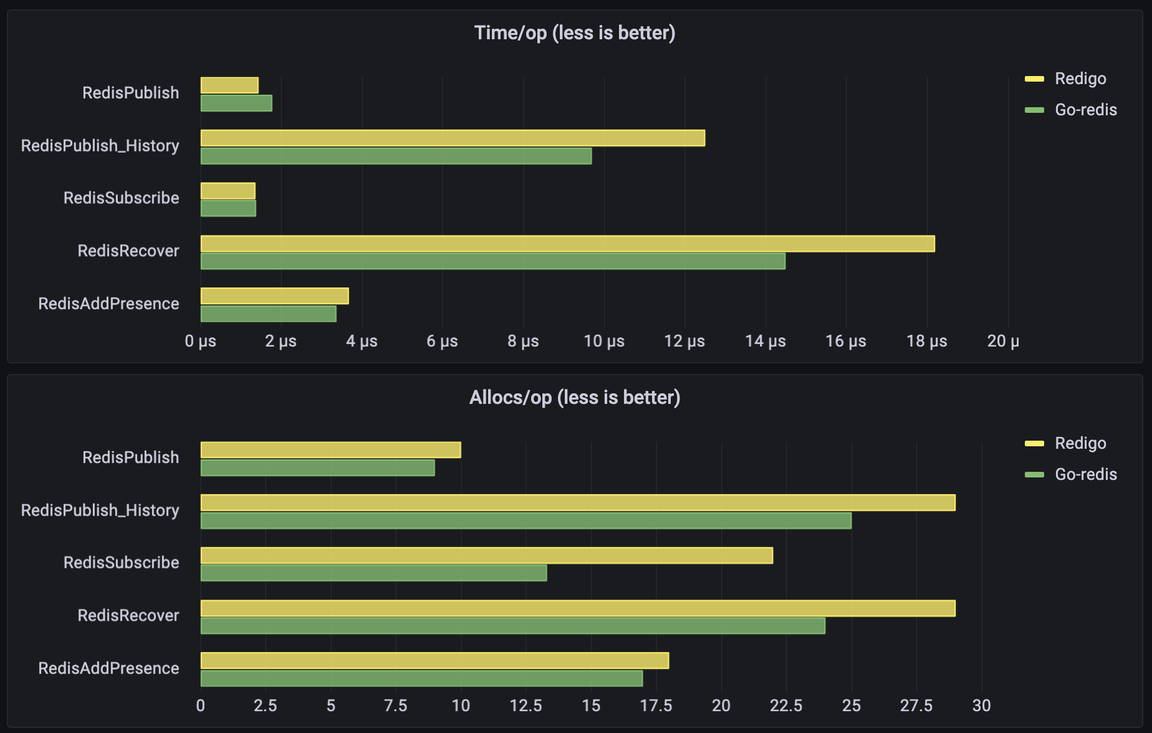
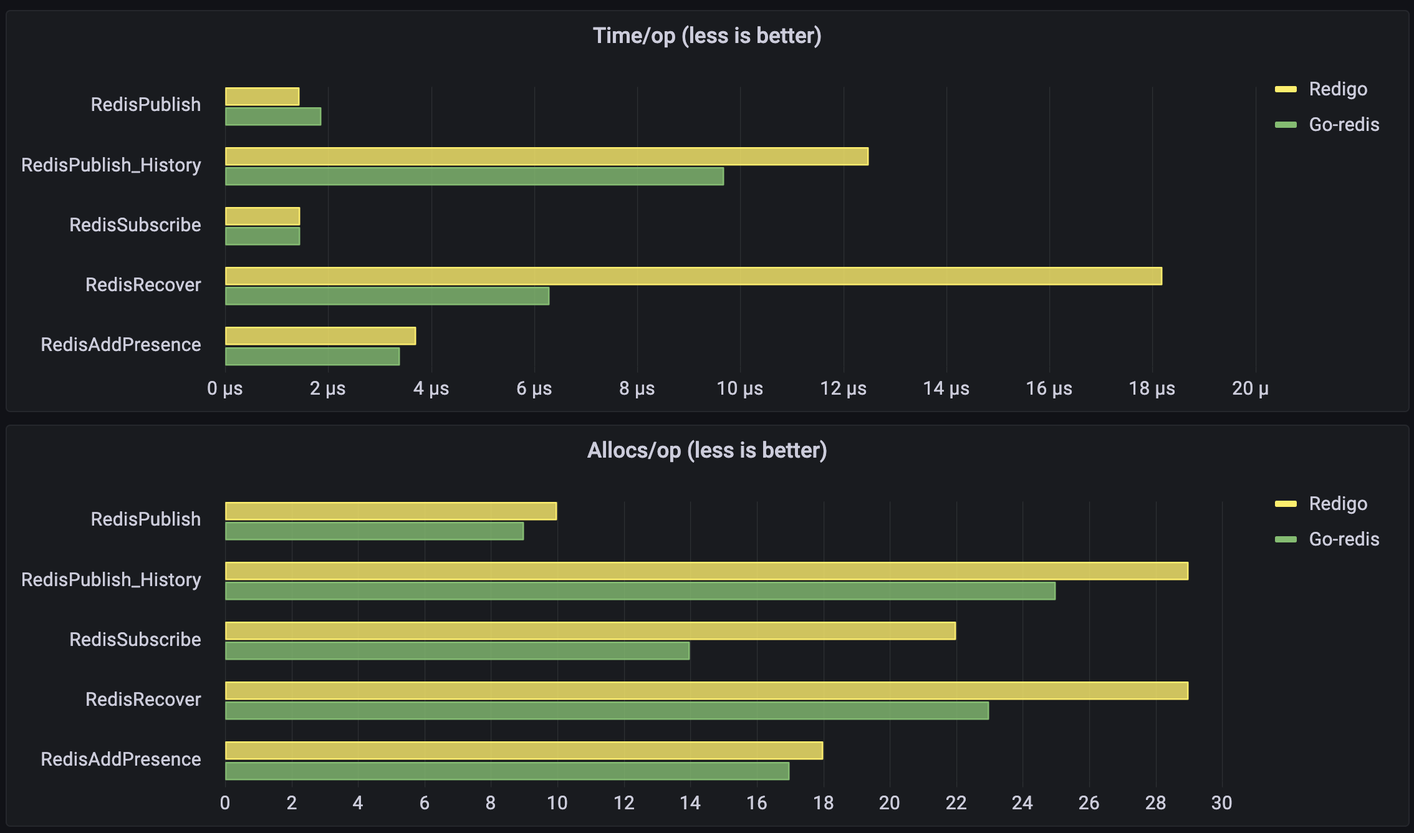
post updates

diff --git a/blog/2022-12-13-improving-redis-engine-performance.md b/blog/2022-12-13-improving-redis-engine-performance.md
@@ -10,7 +10,7 @@ hide_table_of_contents: false
 draft: true
 ---
 
-![Centrifuge](/img/redis.png)
+![Centrifugo_Redis_Engine_Improvements](/img/redis.png)
 
 The main objective of Centrifugo is to manage persistent client connections established over various real-time transports (including WebSocket, HTTP-Streaming, SSE, WebTransport, etc) and offer an API for publishing data towards established connections. Clients subscribe to channels, hence Centrifugo implements PUB/SUB mechanics to transmit published data to all online channel subscribers.
 
@@ -36,7 +36,7 @@ In general Centrifugo architecture may be perfectly illustrated by this picture 
 
 ## Redigo
 
-For a long time, the [gomodule/redigo](https://github.com/gomodule/redigo) package served as the foundation for the Redis Engine implementation in Centrifugo. Huge props go to Mr Gary Burd for establishing such a great set of libraries in Go ecosystem.
+For a long time, the [gomodule/redigo](https://github.com/gomodule/redigo) package served as the foundation for the Redis Engine implementation in Centrifugo. Huge props go to [Mr Gary Burd](https://github.com/garyburd) for creating it.
 
 Redigo offers a connection [Pool](https://pkg.go.dev/github.com/gomodule/redigo/redis#Pool) to Redis. A simple usage of it involves getting the connection from the pool, issuing request to Redis over that connection, and then putting the connection back to the pool after receiving the result from Redis.
 
@@ -127,18 +127,18 @@ func (s *sender) send() error {
 	return <-errCh
 }
 
-func (p *sender) runPipelineRoutine() {
+func (s *sender) runPipelineRoutine() {
 	conn := p.pool.Get()
 	defer conn.Close()
 	for {
 		select {
-		case cmd := <-p.cmdCh:
+		case cmd := <-s.cmdCh:
 			commands := []command{cmd}
 			conn.Send("set", "redigo", "test")
 		loop:
 			for i := 0; i < maxCommandsInPipeline; i++ {
 				select {
-				case cmd := <-p.cmdCh:
+				case cmd := <-s.cmdCh:
 					commands = append(commands, cmd)
 					conn.Send("set", "redigo", "test")
 				default:
@@ -185,7 +185,7 @@ func BenchmarkRedigoPipelininig(b *testing.B) {
 }
 ```
 
-This is a strategy that we employed in Centrifugo for a long time. As you can see code with automatic pipelining gets more complex, and in real life, it's even more complicated to handle different types of commands, channel send timeouts, and server shutdowns.
+This is a strategy that we employed in Centrifugo for a long time. As you can see code with automatic pipelining gets more complex, and in real life it's even more complicated to support different types of commands, channel send timeouts, and server shutdowns.
 
 What about the performance of this approach?
 
@@ -196,7 +196,9 @@ BenchmarkRedigoPipelininig-8   1840758     604.7 ns/op      176 B/op     4 alloc
 
 Operation latency reduced from 4648 ns/op to 604.7 ns/op – not bad right?
 
-It's worth mentioning that upon increased RTT between application and Redis the approach with pipelining will provide more poor throughput. But it still can be better than in pool-based approach. Let's say we have latency 5ms between app and Redis. This means that with pool size of 128 you will be able to issue up to `128 * (1000 / 5) = 25600` requests per second. With the pipelining approach above it may be up to `512 * (1000 / 5) = 102400` requests per second. And it can scale further if you increase `numPipelineWorkers`. Though increasing `numPipelineWorkers` has negative effect on CPU – we will discuss this later in this post.
+It's worth mentioning that upon increased RTT between application and Redis the approach with pipelining will provide worse throughput. But it still can be better than in pool-based approach.
+
+Let's say we have latency 5ms between app and Redis. This means that with pool size of 128 you will be able to issue up to `128 * (1000 / 5) = 25600` requests per second over 128 connections. With the pipelining approach above the theoretical limit is `512 * (1000 / 5) = 102400` requests per second over a single connection (though in case of using code for pipelining shown above we need to have larger parallelism). And it can scale further if you increase `numPipelineWorkers` to work over several connections in paralell. Though increasing `numPipelineWorkers` has negative effect on CPU – we will discuss this later in this post.
 
 Redigo is an awesome battle-tested library that served us great for a long time.
 
@@ -251,20 +253,20 @@ At some point we felt that eliminating additional dependencies (even though I am
 To summarize, here is what we wanted from Redis library:
 
 * Possibility to work with all three Redis setup options we support: standalone, master-replica(s) with Sentinel, Redis Cluster, so we can depend on one library instead of three
-* Less memory allocations, so our users could notice a sufficient CPU reduction on Centrifugo nodes which communicate with Redis a lot
-* More type-safety when constructing Redis commands
+* Less memory allocations (and more type-safety API is a plus)
 * Support working with RESP2-only Redis servers as we need that for backwards compatibility. And some vendors like Redis Enterprise still support RESP2 protocol only
 * The library should be actively maintained
 
-## Go-redis
+## Go-redis/redis
 
-The most obvious alternative to `redigo` is [go-redis/redis](https://github.com/go-redis/redis) package. It's popular, regularly gets updates, used by a huge amount of Go projects (Grafana, Thanos, etc.). I personally successfully used it in several other projects I worked on.
+The most obvious alternative to `redigo` is [go-redis/redis](https://github.com/go-redis/redis) package. It's popular, regularly gets updates, used by a huge amount of Go projects (Grafana, Thanos, etc.). And maintained by 
+[Vladimir Mihailenco](https://github.com/vmihailenco) who created several more awesome Go libraries, like [msgpack](https://github.com/vmihailenco/msgpack) for example. I personally successfully used `go-redis/redis` in several other projects I worked on.
 
 To avoid setup boilerplate for various Redis installation variations `go-redis/redis` has [UniversalClient](https://pkg.go.dev/github.com/go-redis/redis/v9#UniversalClient). From docs:
 
 > UniversalClient is a wrapper client which, based on the provided options, represents either a ClusterClient, a FailoverClient, or a single-node Client. This can be useful for testing cluster-specific applications locally or having different clients in different environments.
 
-In terms of implementation `go-redis/redis` also has internal pool of connections to Redis, similar to `redigo`. It's also possible to get a dedicated connection from the internal pool and use it for pipelining. So `UniversalClient` reduces setup boilerplate for different Redis installation types and number of dependencies we had – and still provides similar approach for the connection management so we could easily re-implement things we had.
+In terms of implementation `go-redis/redis` also has internal pool of connections to Redis, similar to `redigo`. It's also possible to use [Client.Pipeline](https://pkg.go.dev/github.com/go-redis/redis/v9#Client.Pipeline) method to allocate a [Pipeliner](https://pkg.go.dev/github.com/go-redis/redis/v9#Pipeliner) interface and use it for pipelining. So `UniversalClient` reduces setup boilerplate for different Redis installation types and number of dependencies we had, and it provide very similar way to pipeline requests so we could easily re-implement things we had with Redigo.
 
 Go-redis also provides more type-safety when constructing commands compared to Redigo, almost every command in Redis is implemented as a separate method of `Client`, for example `Publish` [defined](https://pkg.go.dev/github.com/go-redis/redis/v9#Client.Publish) as:
 
@@ -323,29 +325,29 @@ But what about performance? Here we will show results for several operations whi
 4. Recovering missed publication state from channel STREAM, this is again may be called lots of times when all clients reconnect at once (`RedisRecover`).
 5. Updating connection presence information - many connections may periodically update their channel online presence information in Redis (`RedisAddPresence`)
 
-Here are the benchmark results we got when comparing `redigo` (v1.8.9) implementation (old) and `go-redis/redis` (v9.0.0-rc.1) implementation (new) with Redis v6.2.7:
+Here are the benchmark results we got when comparing `redigo` (v1.8.9) implementation (old) and `go-redis/redis` (v9.0.0-rc.2) implementation (new) with Redis v6.2.7 on Mac with M1 processor and benchmark paralellism 128:
 
 ```
-❯ benchstat redigo.txt goredis.txt
+❯ benchstat redigo_p128.txt goredis_p128.txt
 name                      old time/op    new time/op    delta
-RedisPublish-8            1.45µs ± 6%    1.78µs ± 2%  +22.30%  (p=0.000 n=9+9)
-RedisPublish_History-8    12.5µs ± 7%     9.7µs ± 3%  -22.40%  (p=0.000 n=10+10)
-RedisSubscribe-8          1.56µs ±32%    1.42µs ±11%     ~     (p=0.290 n=30+28)
-RedisRecover-8            18.2µs ± 3%    14.5µs ± 2%  -20.11%  (p=0.000 n=10+10)
-RedisAddPresence-8        3.68µs ± 1%    3.37µs ± 3%   -8.36%  (p=0.000 n=10+10)
+RedisPublish-8            1.45µs ±10%    1.88µs ± 4%  +29.32%  (p=0.000 n=10+10)
+RedisPublish_History-8    12.5µs ± 6%     9.7µs ± 3%  -22.77%  (p=0.000 n=10+10)
+RedisSubscribe-8          1.47µs ±24%    1.47µs ±10%     ~     (p=0.469 n=10+10)
+RedisRecover-8            18.4µs ± 2%     6.3µs ± 0%  -65.78%  (p=0.000 n=10+8)
+RedisAddPresence-8        3.72µs ± 1%    3.40µs ± 1%   -8.74%  (p=0.000 n=10+10)
 
-name                     old alloc/op   new alloc/op   delta
-RedisPublish-8              483B ± 0%      499B ± 0%   +3.31%  (p=0.000 n=10+8)
-RedisPublish_History-8    1.30kB ± 0%    1.08kB ± 0%  -16.69%  (p=0.000 n=8+8)
-RedisSubscribe-8            896B ± 1%      662B ± 8%  -26.18%  (p=0.000 n=30+30)
-RedisRecover-8            1.25kB ± 0%    1.02kB ± 0%  -18.29%  (p=0.000 n=10+10)
-RedisAddPresence-8          907B ± 0%      827B ± 0%   -8.78%  (p=0.000 n=10+8)
+name                      old alloc/op   new alloc/op   delta
+RedisPublish-8              483B ± 0%      499B ± 0%   +3.37%  (p=0.000 n=9+10)
+RedisPublish_History-8    1.30kB ± 0%    1.08kB ± 0%  -16.67%  (p=0.000 n=10+10)
+RedisSubscribe-8            892B ± 2%      662B ± 6%  -25.83%  (p=0.000 n=10+10)
+RedisRecover-8            1.25kB ± 1%    1.00kB ± 0%  -19.91%  (p=0.000 n=10+10)
+RedisAddPresence-8          907B ± 0%      827B ± 0%   -8.82%  (p=0.002 n=7+8)
 
-name                    old allocs/op  new allocs/op  delta
+name                      old allocs/op  new allocs/op  delta
 RedisPublish-8              10.0 ± 0%       9.0 ± 0%  -10.00%  (p=0.000 n=10+10)
 RedisPublish_History-8      29.0 ± 0%      25.0 ± 0%  -13.79%  (p=0.000 n=10+10)
-RedisSubscribe-8            22.0 ± 0%      13.6 ±12%  -38.33%  (p=0.000 n=30+30)
-RedisRecover-8              29.0 ± 0%      24.0 ± 0%  -17.24%  (p=0.000 n=10+10)
+RedisSubscribe-8            22.0 ± 0%      14.0 ± 0%  -36.36%  (p=0.000 n=8+7)
+RedisRecover-8              29.0 ± 0%      23.0 ± 0%  -20.69%  (p=0.000 n=10+10)
 RedisAddPresence-8          18.0 ± 0%      17.0 ± 0%   -5.56%  (p=0.000 n=10+10)
 ```
 
@@ -359,7 +361,13 @@ Please note that this benchmark is not a pure performance comparison of two Go l
 
 :::
 
-While the observed performance improvements here are not really mind-blowing – we see a noticeable reduction in allocations in these benchmarks and in some other benchmarks not presented here we observed a 2 times reduced latency.
+:::note
+
+Centrifugo benchmarks results shown in the post use parallelism 128. If someone interested to check numbers for paralellism 1 or 16 – [check out this comment on Github](https://github.com/centrifugal/centrifugal.dev/pull/18#issuecomment-1356263272).
+
+:::
+
+While the observed performance improvements here are not mind-blowing – we see a noticeable reduction in allocations in these benchmarks and in some other benchmarks not presented here we observed a 2 times reduced latency.
 
 Overall, results convinced us that the migration from `redigo` to `go-redis/redis` may provide Centrifugo with everything we aimed for – all the goals for a `redigo` alternative outlined above were successfully fullfilled.
 
@@ -375,7 +383,7 @@ While results were good with `go-redis/redis` we also made an attempt to impleme
 
 > A fast Golang Redis client that supports Client Side Caching, Auto Pipelining, Generics OM, RedisJSON, RedisBloom, RediSearch, RedisAI, RedisGears, etc.
 
-The readme of `rueidis` contains benchmark results where it hugely outperforms `go-redis/redis` in both single Redis and Redis Custer setups:
+The readme of `rueidis` contains benchmark results where it hugely outperforms `go-redis/redis` in terms of operation latency/throughput in both single Redis and Redis Custer setups:
 
 ![](/img/rueidis_1.png)
 
@@ -427,35 +435,35 @@ For Centrifugo we didn't expect such a huge speed-up as shown in the above graph
 * [Part 2: Reading Again From Channels?](https://betterprogramming.pub/working-on-high-performance-golang-client-library-reading-again-from-channels-5e98ff3538cf)
 * [Part 3: Remove the Bad Busy Loops With the Sync.Cond](https://betterprogramming.pub/working-on-high-performance-golang-client-library-remove-the-bad-busy-loops-with-the-sync-cond-e262b3fcb458)
 
-I did some prototypes with `rueidis` which were super-promising in terms of performance. There were some issues found during that early prototyping (mostly with PUB/SUB) – but all of them were quickly resolved by Rueian (`rueidis` author).
+I did some prototypes with `rueidis` which were super-promising in terms of performance. There were some issues found during that early prototyping (mostly with PUB/SUB) – but all of them were quickly resolved by Rueian.
 
 Until `v0.0.80` release `rueidis` did not support RESP2 though, so we could not replace our Redis Engine implementation with it. But as soon as it got RESP2 support we opened [a pull request with alternative implementation](https://github.com/centrifugal/centrifuge/pull/262).
 
-Since auto-pipelining is used in `rueidis` by default we were able to remove some of our own pipelining management code – so the Engine implementation is more concise now. One more thing to mention is a simpler PUB/SUB code we were able to write with `rueidis`. In `redigo` case we had to periodically PING PUB/SUB connection to maintain it alive, `rueidis` does this automatically.
+Since auto-pipelining is used in `rueidis` by default we were able to remove some of our own pipelining management code – so the Engine implementation is more concise now. One more thing to mention is a simpler PUB/SUB code we were able to write with `rueidis`. One example is that in `redigo` case we had to periodically PING PUB/SUB connection to maintain it alive, `rueidis` does this automatically.
 
-Regarding performance, here are the benchmark results we got when comparing `redigo` (v1.8.9) implementation (old) and `rueidis` (v0.0.86) implementation (new):
+Regarding performance, here are the benchmark results we got when comparing `redigo` (v1.8.9) implementation (old) and `rueidis` (v0.0.90) implementation (new):
 
 ```
-❯ benchstat redigo.txt rueidis.txt
+❯ benchstat redigo_p128.txt rueidis_p128.txt
 name                      old time/op    new time/op    delta
-RedisPublish-8            1.45µs ± 6%    0.59µs ± 3%  -59.67%  (p=0.000 n=9+8)
-RedisPublish_History-8    12.5µs ± 7%     9.7µs ± 0%  -22.28%  (p=0.000 n=10+10)
-RedisSubscribe-8          1.50µs ±28%    1.42µs ± 3%     ~     (p=1.000 n=10+10)
-RedisRecover-8            18.2µs ± 3%    10.9µs ± 1%  -40.01%  (p=0.000 n=10+10)
-RedisAddPresence-8        3.68µs ± 1%    3.54µs ± 0%   -3.86%  (p=0.000 n=10+9)
+RedisPublish-8            1.45µs ±10%    0.56µs ± 1%  -61.53%  (p=0.000 n=10+9)
+RedisPublish_History-8    12.5µs ± 6%     9.7µs ± 1%  -22.43%  (p=0.000 n=10+9)
+RedisSubscribe-8          1.47µs ±24%    1.45µs ± 1%     ~     (p=0.484 n=10+9)
+RedisRecover-8            18.4µs ± 2%     6.2µs ± 1%  -66.08%  (p=0.000 n=10+10)
+RedisAddPresence-8        3.72µs ± 1%    3.60µs ± 1%   -3.34%  (p=0.000 n=10+10)
 
-name                     old alloc/op   new alloc/op   delta
-RedisPublish-8              483B ± 0%      171B ± 0%  -64.66%  (p=0.000 n=10+10)
-RedisPublish_History-8    1.30kB ± 0%    0.55kB ± 1%  -57.68%  (p=0.000 n=8+10)
-RedisSubscribe-8            902B ± 1%      440B ± 0%  -51.20%  (p=0.000 n=10+10)
-RedisRecover-8            1.25kB ± 0%    0.59kB ± 1%  -53.08%  (p=0.000 n=10+10)
-RedisAddPresence-8          907B ± 0%      149B ± 2%  -83.52%  (p=0.000 n=10+10)
+name                      old alloc/op   new alloc/op   delta
+RedisPublish-8              483B ± 0%       91B ± 0%  -81.16%  (p=0.000 n=9+10)
+RedisPublish_History-8    1.30kB ± 0%    0.39kB ± 0%  -70.08%  (p=0.000 n=10+8)
+RedisSubscribe-8            892B ± 2%      360B ± 0%  -59.66%  (p=0.000 n=10+10)
+RedisRecover-8            1.25kB ± 1%    0.36kB ± 1%  -71.52%  (p=0.000 n=10+10)
+RedisAddPresence-8          907B ± 0%      151B ± 1%  -83.34%  (p=0.000 n=7+9)
 
-name                    old allocs/op  new allocs/op  delta
-RedisPublish-8              10.0 ± 0%       3.0 ± 0%  -70.00%  (p=0.000 n=10+10)
-RedisPublish_History-8      29.0 ± 0%      12.0 ± 0%  -58.62%  (p=0.000 n=10+10)
-RedisSubscribe-8            22.0 ± 0%       7.0 ± 0%  -68.18%  (p=0.000 n=10+10)
-RedisRecover-8              29.0 ± 0%      11.0 ± 0%  -62.07%  (p=0.000 n=10+10)
+name                      old allocs/op  new allocs/op  delta
+RedisPublish-8              10.0 ± 0%       2.0 ± 0%  -80.00%  (p=0.000 n=10+10)
+RedisPublish_History-8      29.0 ± 0%      10.0 ± 0%  -65.52%  (p=0.000 n=10+10)
+RedisSubscribe-8            22.0 ± 0%       6.0 ± 0%  -72.73%  (p=0.002 n=8+10)
+RedisRecover-8              29.0 ± 0%       7.0 ± 0%  -75.86%  (p=0.000 n=10+10)
 RedisAddPresence-8          18.0 ± 0%       3.0 ± 0%  -83.33%  (p=0.000 n=10+10)
 ```
 
@@ -477,9 +485,9 @@ This drastically reduces a chance to make a stupid mistake while constructing a 
 
 ## Switching to Rueidis: reducing CPU usage
 
-After making all these benchmarks and implementing Engine in Rueidis I decided to check whether Centrifugo consumes less CPU with it. I expected a notable CPU reduction as Rueidis implementation allocates two times less than Redigo-based. Turned out it's not that simple.
+After making all these benchmarks and implementing Engine in Rueidis I decided to check whether Centrifugo consumes less CPU with it. I expected a notable CPU reduction as Rueidis Engine implementation allocates two times less than Redigo-based. Turned out it's not that simple.
 
-I ran Centrifugo with some artificial load and noticed that CPU consumption of new implementation is actually... worse than we had with Redigo-based engine under equal conditions! But why?
+I ran Centrifugo with some artificial load and noticed that CPU consumption of the new implementation is actually... worse than we had with Redigo-based engine under equal conditions!😩 But why?
 
 As I mentioned above Redis pipelining is a technique when several commands may be combined into one batch to send over the network. In case of automatic pipelining the size of generated batches start playing a crucial role in application and Redis CPU usage – since smaller command batches result into more read/write system calls on both application and Redis sides. That's why projects like [Twemproxy](https://github.com/twitter/twemproxy) which sit between app and Redis have sich a good effect on Redis CPU usage among other things. 
 
@@ -525,42 +533,61 @@ Now CPU usage is:
 | Application CPU, % | 95            | 99             |  <span style={{color: 'green'}}>59</span>            |
 | Redis CPU, %       | 36             | 35              | <span style={{color: 'green'}}>12</span>              |
 
-As we can see we can achieve great CPU usage reduction with it. It went from 116% to 59% for the application side, and from 42% to only 12% for Redis! We are sacrificing latency though. Given the fact the CPU utilization reduction is very notable the trade-off is pretty fair.
+So we can achieve great CPU usage reduction. CPU went from 116% to 59% for the application side, and from 42% to only 12% for Redis! We are sacrificing latency though. Given the fact the CPU utilization reduction is very notable the trade-off is pretty fair.
 
-As you can see we were able to achieve better CPU results just by using 100 microseconds delay to each request. In real life, where we are not running Redis on localhost and have some network latency in between application and Redis, this delay should be insignificant. Indeed, it can even improve (!) the latency you have. You may wonder what happened with benchmarks we showed above after we added `MaxFlushDelay` option. In Centrifugo we chose default value 100 microseconds, and here are results on localhost (old without delay, new with delay):
+:::caution
+
+It's definitely possible to improve CPU usage in Redigo and Go-redis/redis cases too – using similar technique. But the goal here was to improve Rueidis-based engine implementation to make it comparable or better than our Redigo-based implementation in terms of CPU utilization. 
+
+:::
+
+As you can see we were able to achieve better CPU results just by using 100 microseconds delay to each request. In real life, where we are not running Redis on localhost and have some network latency in between application and Redis, this delay should be insignificant. Indeed, it can even improve (!) the latency you have. You may wonder what happened with benchmarks we showed above after we added `MaxFlushDelay` option. In Centrifugo we chose default value 100 microseconds, and here are results on localhost (`old` without delay, `new` with delay):
 
 ```
+> benchstat rueidis_p128.txt rueidis_delay_p128.txt
 name                      old time/op    new time/op    delta
-RedisPublish-8             574ns ± 3%     486ns ± 3%  -15.35%  (p=0.000 n=9+10)
-RedisPublish_History-8    9.65µs ± 1%    9.60µs ± 1%   -0.50%  (p=0.014 n=9+9)
-RedisSubscribe-8          1.42µs ± 3%    1.27µs ± 2%  -10.69%  (p=0.000 n=10+10)
-RedisRecover-8            10.8µs ± 0%    10.6µs ± 0%   -1.36%  (p=0.000 n=9+9)
-RedisAddPresence-8        3.56µs ± 1%    3.31µs ± 0%   -7.14%  (p=0.000 n=10+10)
+RedisPublish-8             559ns ± 1%     468ns ± 0%  -16.35%  (p=0.000 n=9+8)
+RedisPublish_History-8    9.72µs ± 1%    9.67µs ± 1%   -0.52%  (p=0.007 n=9+8)
+RedisSubscribe-8          1.45µs ± 1%    1.27µs ± 1%  -12.49%  (p=0.000 n=9+10)
+RedisRecover-8            6.25µs ± 1%    5.85µs ± 0%   -6.32%  (p=0.000 n=10+10)
+RedisAddPresence-8        3.60µs ± 1%    3.33µs ± 1%   -7.52%  (p=0.000 n=10+10)
 
-name                     old alloc/op   new alloc/op   delta
-RedisPublish-8              171B ± 0%      171B ± 0%     ~     (all equal)
-RedisPublish_History-8      554B ± 1%      556B ± 1%     ~     (p=0.714 n=10+10)
-RedisSubscribe-8            440B ± 0%      440B ± 0%     ~     (all equal)
-RedisRecover-8              590B ± 1%      589B ± 1%     ~     (p=0.651 n=10+10)
-RedisAddPresence-8          231B ± 1%      231B ± 1%     ~     (p=0.768 n=9+9)
-
-name                    old allocs/op  new allocs/op  delta
-RedisPublish-8              3.00 ± 0%      3.00 ± 0%     ~     (all equal)
-RedisPublish_History-8      12.0 ± 0%      12.0 ± 0%     ~     (all equal)
-RedisSubscribe-8            7.00 ± 0%      7.00 ± 0%     ~     (all equal)
-RedisRecover-8              11.0 ± 0%      11.0 ± 0%     ~     (all equal)
-RedisAddPresence-8          4.00 ± 0%      4.00 ± 0%     ~     (all equal)
+(rest is not important here...)
 ```
 
 It's even better for this set of benchmarks. Though while it's better for these benchmarks the numbers may differ for other under different conditions. For example, in the benchmarks we run we use concurrency 128, if we reduce concurrency we will notice reduced throughput – as batches Rueidis collects will be smaller. Smaller batches + some delay to collect = less requests per second to send.
 
-The problem is that the value to pause Rueidis write loop is a very use case specific, it's pretty hard to provide a reasonable default for it. Depending on request rate/size, network latency etc. you may choose a larger or smaller delay. In v4.1.0 we start with hardcoded `MaxFlushDelay` - though possibly we will have to make it tunable later.
+The problem is that the value to pause Rueidis write loop is a very use case specific, it's pretty hard to provide a reasonable default for it. Depending on request rate/size, network latency etc. you may choose a larger or smaller delay. In v4.1.0 we start with hardcoded 100 microsecond `MaxFlushDelay` - though possibly we will have to make it tunable later.
 
-Hope you understand now why increasing `numPipelineWorkers` value in the pipelining code showed here before results into better throughput but increased CPU usage on app and Redis sides – due to smaller batch sizes and more read/write system calls as the consequence.
+To check that Centrifugo benchmarks also utilize less CPU I added rate limiter (50k rps per second) to benchmark and compared version without `MaxFlushDelay` and with 100 microsecond `MaxFlushDelay`:
+
+| 50k req per second | Without delay | With 100mks delay |
+|----- |----- |----|
+| BenchmarkPublish | Centrifugo - 75%, Redis - 24% |  Centrifugo - 44%, Redis - 9% |
+| BenchmarkPublish_History | Centrifugo - 80% , Redis - 67% |  Centrifugo - 55%, Redis - 50% |
+| BenchmarkSubscribe | Centrifugo - 80%, Redis - 30% |  Centrifugo - 45% , Redis - 14% |
+| BenchmarkRecover | Centrifugo - 84%, Redis - 51% |  Centrifugo - 51%, Redis - 36% |
+| BenchmarkPresence | Centrifugo - 114%, Redis - 69% |  Centrifugo - 90%, Redis - 60% |
+
+:::note
+
+In this test I replaced `BenchmarkAddPresence` with `BenchmarkPresence` (get information about all online subscribers in channel) to also make sure we have CPU reduction when using read-intensive method, i.e. when Redis response is reasonably large.
+
+:::
+
+We observe a notable CPU usage improvement here.
+
+Hope you understand now why increasing `numPipelineWorkers` value in the pipelining code showed before results into increased CPU usage on app and Redis sides – due to smaller batch sizes and more read/write system calls as the consequence.
+
+:::note
+
+BTW, would it be a nice thing if Go benchmarking suite could show a CPU usage of the process in addition to time and alloc stats? 🤔
+
+:::
 
 ## Adding latency
 
-The last thing to check is how new implementation works upon increased RTT between application and Redis. To add artificial latency on localhost one can use `tc` tool as [shown here](https://daniel.haxx.se/blog/2010/12/14/add-latency-to-localhost/) by Daniel Stenberg. But I am on MacOS so the simplest way I found was using [Shopify/toxiproxy](https://github.com/Shopify/toxiproxy). Sth like running a server:
+The last thing to check is how new implementation works upon increased RTT between application and Redis. To add artificial latency on localhost on Linux one can use `tc` tool as [shown here](https://daniel.haxx.se/blog/2010/12/14/add-latency-to-localhost/) by Daniel Stenberg. But I am on MacOS so the simplest way I found was using [Shopify/toxiproxy](https://github.com/Shopify/toxiproxy). Sth like running a server:
 
 ```bash
 toxyproxy-server
@@ -573,18 +600,27 @@ toxiproxy-cli create -l localhost:26379 -u localhost:6379 toxic_redis
 toxiproxy-cli toxic add -t latency -a latency=5 toxic_redis
 ```
 
-The benchmark results are (we only interested in time/op here as allocs difference already shown above and it's the same here):
+The benchmark results are (`old` is Redigo-based, new is Rueidis-based):
 
 ```
+> benchstat redigo_latency_p128.txt rueidis_delay_latency_p128.txt
 name                      old time/op    new time/op    delta
-RedisPublish-8            31.8µs ± 2%     5.5µs ± 3%   -82.58%  (p=0.000 n=10+10)
-RedisPublish_History-8    63.3µs ± 1%    10.8µs ± 2%   -82.97%  (p=0.000 n=10+10)
-RedisSubscribe-8          1.74µs ± 6%    6.08µs ± 7%  +249.97%  (p=0.000 n=8+10)
-RedisRecover-8            47.2µs ± 2%     7.5µs ± 5%   -84.07%  (p=0.000 n=10+10)
-RedisAddPresence-8        51.6µs ± 5%     5.7µs ± 2%   -88.92%  (p=0.000 n=10+8)
+RedisPublish-8            31.5µs ± 1%     5.6µs ± 3%   -82.26%  (p=0.000 n=9+10)
+RedisPublish_History-8    62.8µs ± 3%    10.6µs ± 4%   -83.05%  (p=0.000 n=10+10)
+RedisSubscribe-8          1.52µs ± 5%    6.05µs ± 8%  +298.70%  (p=0.000 n=8+10)
+RedisRecover-8            48.3µs ± 3%     7.3µs ± 4%   -84.80%  (p=0.000 n=10+10)
+RedisAddPresence-8        52.3µs ± 4%     5.8µs ± 2%   -88.94%  (p=0.000 n=10+10)
+
+(rest is not important here...)
 ```
 
-We see that new Engine implementation behaves much better for most cases. But what happened to Subscribe operation? It's 4x worse! Turned out I did not know that when we call `Subscribe` command in Redigo we only flush data to the network without waiting synchronously for subscribe result. It makes sense in general, but in Centrifugo we relied on the returned error thinking that it includes succesful subscription result from Redis - meaning that we already subscribed to a channel. And this could actually lead to some rare bugs in Centrifugo. So here the behavior of `rueidis` while differs from `redigo` in terms of throughput under increased latency just fits Centrifugo better in terms of behavior. So we go with it.
+We see that new Engine implementation behaves much better for most cases. But what happened to `Subscribe` operation? It did not change at all in Redigo case – the same performance as if there is no additional latency involved!
+
+Turned out that when we call `Subscribe` in Redigo case, Redigo only flushes data to the network without waiting synchronously for subscribe result.
+
+It makes sense in general and we can listen to subscribe notifications asynchronously, but in Centrifugo we relied on the returned error thinking that it includes succesful subscription result from Redis - meaning that we already subscribed to a channel at that point. And this could theoretically lead to some rare bugs in Centrifugo.
+
+Rueidis library waits for subscribe response. So here the behavior of `rueidis` while differs from `redigo` in terms of throughput under increased latency just fits Centrifugo better in terms of correctness. So we go with it.
 
 ## Conclusion
 
@@ -597,9 +633,9 @@ For most Centrifugo users this migration means more efficient CPU usage as new i
 Hopefully readers will learn some tips from this text which can help to achieve effective communication with Redis from Go or another programming language. To summarise:
 
 * Redis pipelining may increase throughput and reduce latency, it can also reduce CPU utilization of Redis
-* Don't blindly trust Go benchmark numbers but also think about memory and CPU effect of changes you made
+* Don't blindly trust Go benchmark numbers but also think about CPU effect of changes you made (sometimes of the external system also)
 * Reduce system calls to decrease CPU utilization
-* Don't trust benchmarks - they are lying, written by biased people, **measure for your own use case**. Take into account your load paralellism, network latency, data size.
 * Everything is a trade-off – latency or resource usage? Your own WebSocket server or Centrifugo?
+* Don't rely on someone's else benchmarks, including those published here. **Measure for your own use case**. Take into account your load profile, paralellism, network latency, data size, etc.
 
 **P.S.** One thing worth mentioning and which may be helpful for someone is that during our comparison experiments we discovered that Redis 7 has a major latency increase compared to Redis 6 when executing Lua scripts. So if you have performance sensitive code with Lua scripts take a look at [this Redis issue](https://github.com/redis/redis/issues/10981). With the help of Redis developers some things already improved in `unstable` Redis branch, hopefully that issue will be closed at the time you read this post.
